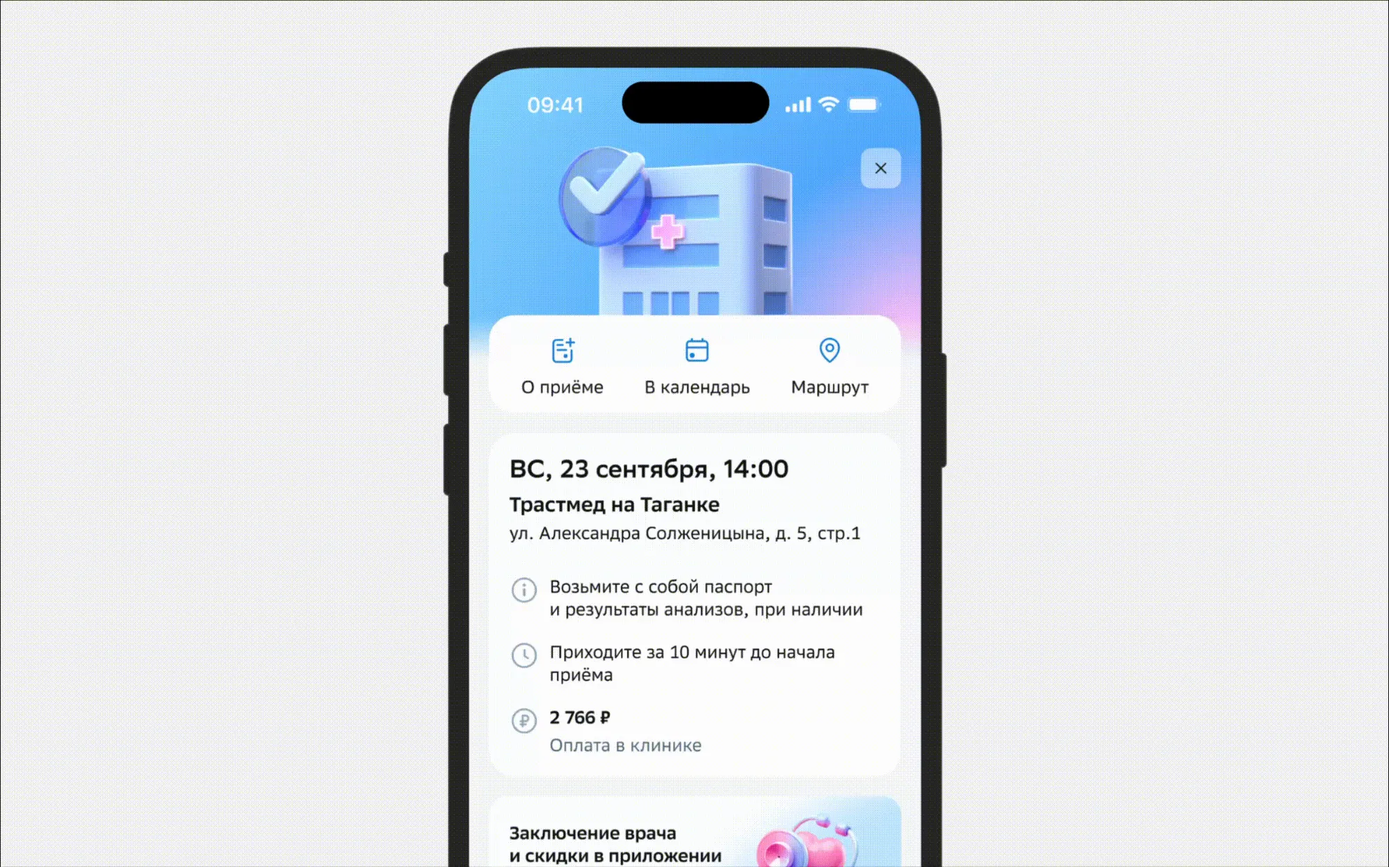
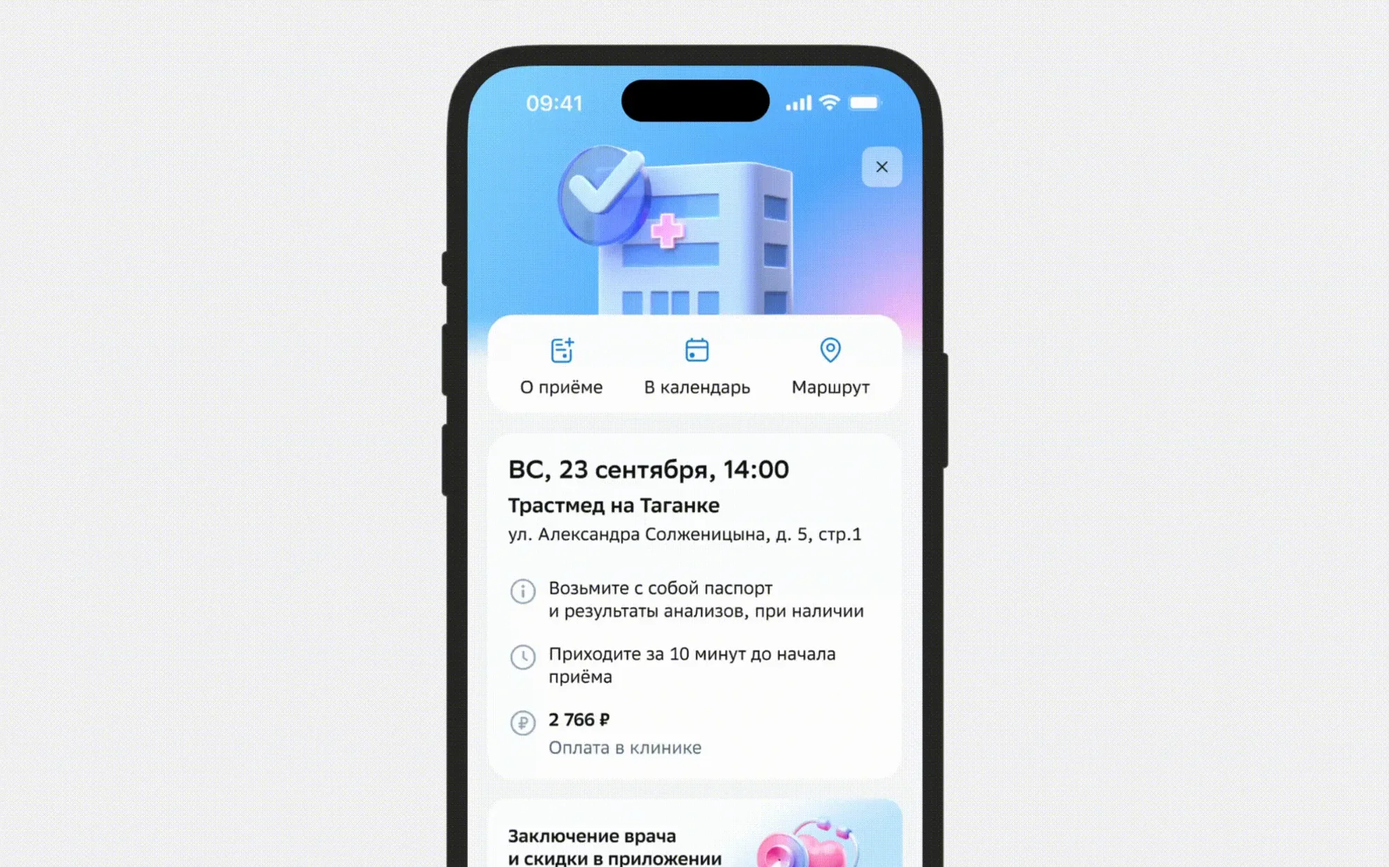
Убрал тёмную рамку по краю видео и постера обложки «Вы записаны»

diff --git a/src/content.config.ts b/src/content.config.ts
@@ -9,8 +9,8 @@ const image = z.object({ src: z.string(), alt: z.string().default('') });
 const cover = z.discriminatedUnion('kind', [
   // обычная картинка во всю ширину, высота по пропорциям файла
   z.object({ kind: z.literal('image'), src: z.string(), alt: z.string() }),
-  // видео 16:10 без звука, по кругу
-  z.object({ kind: z.literal('video'), src: z.string(), poster: z.string().optional(), alt: z.string() }),
+  // видео 16:10 без звука, по кругу; trim: true чуть увеличивает кадр, чтобы спрятать тёмную рамку по краю файла
+  z.object({ kind: z.literal('video'), src: z.string(), poster: z.string().optional(), alt: z.string(), trim: z.boolean().default(false) }),
   // видео + рукописные метрики шрифтом Caveat справа
   z.object({
     kind: z.literal('doctor-metrics'),

diff --git a/src/content/cases/success-screen.md b/src/content/cases/success-screen.md
@@ -30,6 +30,7 @@ card:
     src: "/media/success/cover.mp4"
     poster: "/media/success/cover-poster.webp"
     alt: "Экран «Вы записаны» на телефоне: дата, клиника, быстрые действия"
+    trim: true
   meta: "СберЗдоровье · ведущий дизайнер · 2025 · mobile + web"
   title: "Сделал экран «Вы записаны» точкой роста без рекламной перегрузки"
   lead: "Разделил информацию и рекламу по итогам интервью и юзабилити-тестов, переписал CTA приложения с «скидки» на «пользу» и собрал модульный компонент для трёх продуктов."
@@ -53,7 +54,7 @@ card:
 ---
 
 <div style="display: flex; flex-direction: column; gap: 12px">
-  <video src="/media/success/cover.mp4" poster="/media/success/cover-poster.webp" autoplay muted loop playsinline aria-label="Экран «Вы записаны» на телефоне: дата, клиника, быстрые действия" style="display: block; width: 100%; aspect-ratio: 16 / 10; object-fit: cover; border-radius: 24px; background: #F4F4F2"></video>
+  <div style="aspect-ratio: 16 / 10; border-radius: 24px; overflow: hidden; background: #F4F4F2"><video src="/media/success/cover.mp4" poster="/media/success/cover-poster.webp" autoplay muted loop playsinline aria-label="Экран «Вы записаны» на телефоне: дата, клиника, быстрые действия" style="display: block; width: 100%; height: 100%; object-fit: cover; transform: scale(1.01)"></video></div>
   <div class="nums">
     <div style="background: #F4F4F2; border-radius: 14px; padding: 14px; display: flex; flex-direction: column; gap: 4px"><span style="font-size: 22px; font-weight: 600">+34%</span><span style="font-size: 12px; color: #6B6B6B; line-height: 1.35">кросс-переходов</span></div>
     <div style="background: #F4F4F2; border-radius: 14px; padding: 14px; display: flex; flex-direction: column; gap: 4px"><span style="font-size: 22px; font-weight: 600">+28%</span><span style="font-size: 12px; color: #6B6B6B; line-height: 1.35">установок приложения</span></div>
